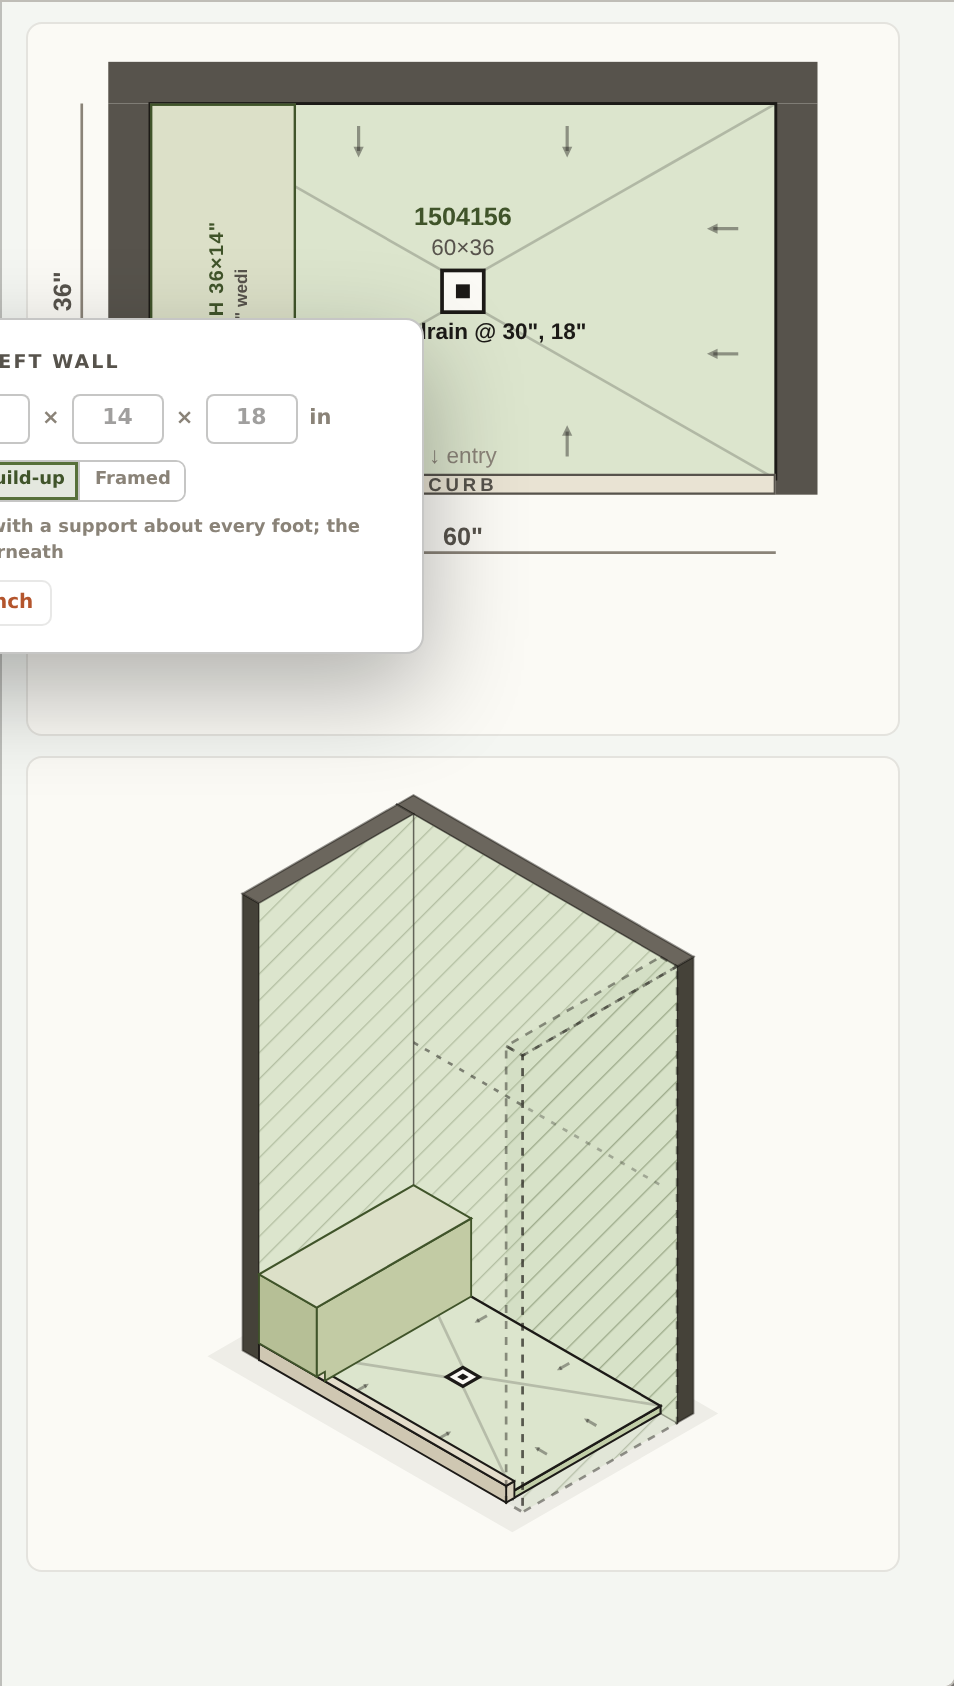
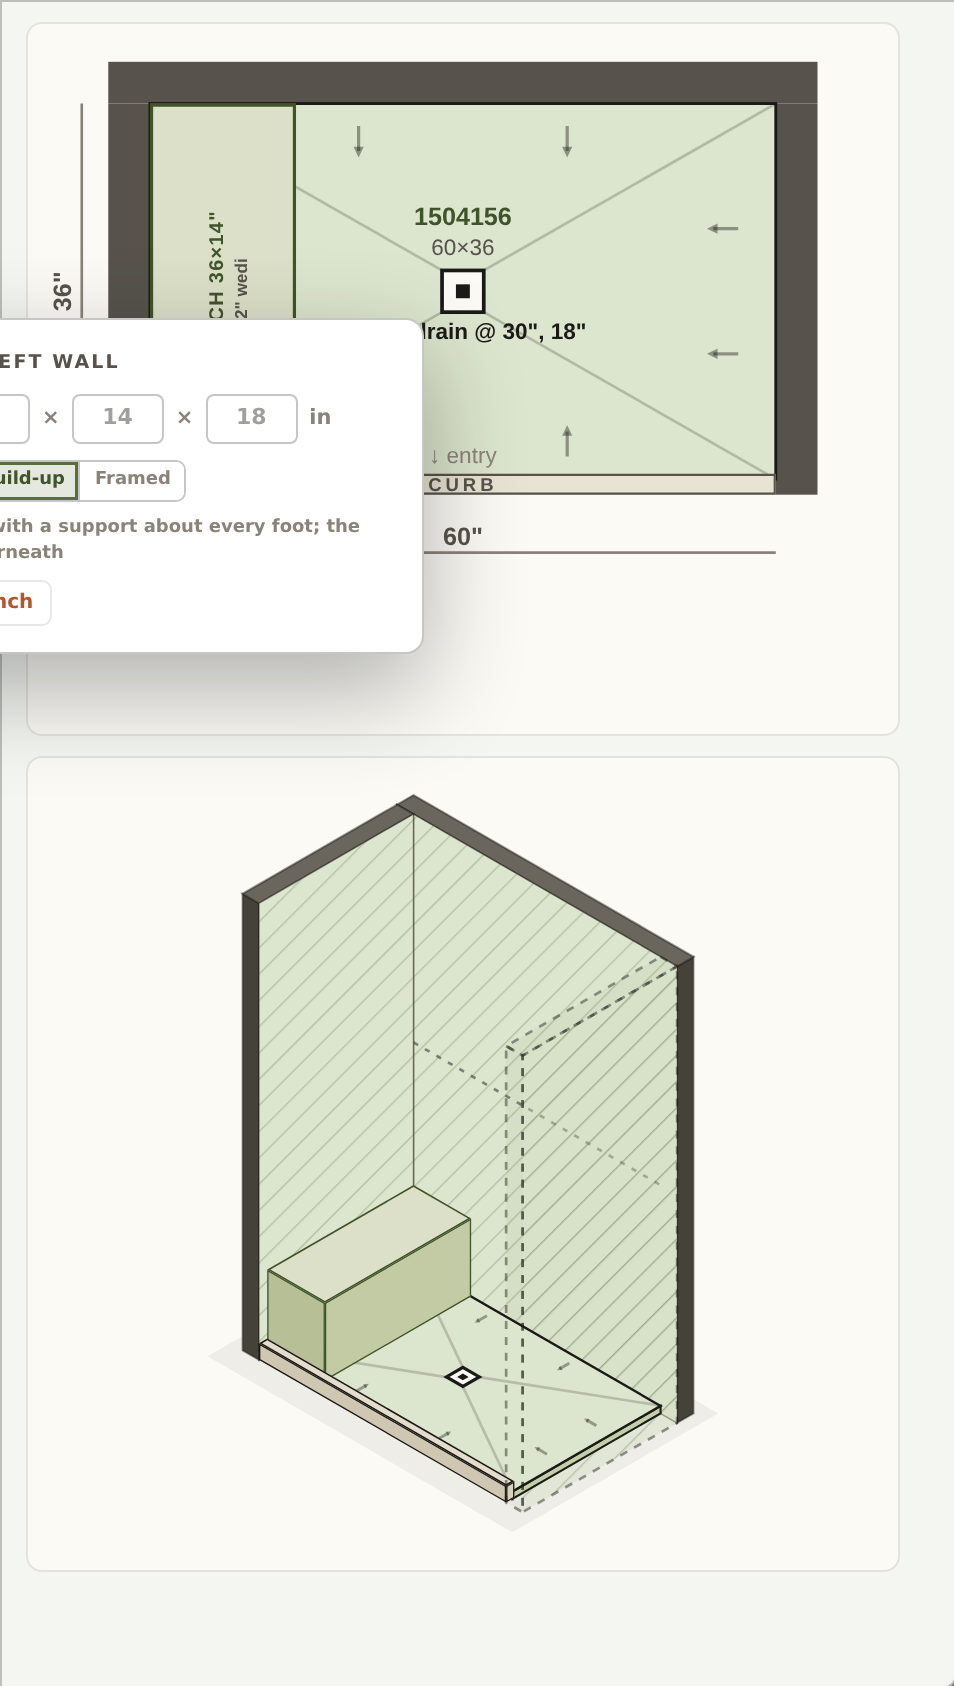
wedi: show the bench stepping up onto the curb in the plan
Owner: "it should sit on top of it. but needs to step up onto it. It is not
showing it right."

The rule stands — the bench sits ON the curb — and the isometric already draws
that exactly: its step corner M(x1, yStep, zOut) lands on the curb's top-inner
edge to a hundredth of an SVG unit (111.97,228.55 drawn against 111.96,228.55
expected), the riser measuring CBH minus the pan's thickness.

The PLAN had no sign of it. The bench rectangle simply covered the run, so the
one element that reads straight across the entry died underneath it. The curb's
two edges now carry on over the bench in the bench's own colour — inner face
dashed, outer face solid — and the raised stretch is marked STEPS UP.

Also recorded in the ticket: the heavy black line in the owner's photo was their
pen, not a rendering artefact, so the earlier isometric stroke-clip was shipped
on a misread. It stands as an improvement but was not the fix asked for.

891 unit tests pass; check-flush.mjs clean.

Claude-Session: https://claude.ai/code/session_01Dm93jK2XExdTW1ULmwr27b

diff --git a/src/WediConfigurator.jsx b/src/WediConfigurator.jsx
@@ -1028,6 +1028,23 @@ function TopDown({ o, w, h, mini, wallOn, dWalls, benches, framedFit, cuts, curb
     const bw = round2(f.w * sc), bh = round2(f.d * sc + out * sc);
     push(<rect key={`bn${bi}`} x={X(f.x)} y={Y(f.y)} width={bw} height={bh}
       fill="#DCE0C8" stroke={MOSS_DEEP} strokeWidth="2.4" clipPath={clipSelf(boxPts(X(f.x), Y(f.y), bw, bh))} />);
+    // Where the bench crosses the curb it STEPS UP onto it (owner 2026-08-03) —
+    // the isometric shows that as a notch in its underside, and this view had no
+    // sign of it at all: the bench simply covered the run and the one line that
+    // reads straight across the entry died under it. The curb's own edges now
+    // carry on over the bench in its colour, so the raised stretch reads as
+    // raised and the run still reads as one line.
+    const eb = !b.suspended && planBands.find((x) => x.side === "entry");
+    if (eb && f.y + f.d >= rd - 0.5) {
+      const lx = X(f.x), rx = X(f.x + f.w);
+      [eb.c0, eb.c1].forEach((cy2, i) => {
+        if (cy2 <= f.y + 0.01 || cy2 * sc > (f.y + f.d + out) * sc + 0.01) return;
+        push(<line key={`bnc${bi}s${i}`} x1={lx} y1={Y(cy2)} x2={rx} y2={Y(cy2)}
+          stroke={MOSS_DEEP} strokeWidth="1.2" strokeDasharray={i ? undefined : "4 3"} />);
+      });
+      push(<text key={`bnu${bi}`} x={round2((lx + rx) / 2)} y={round2(Y((eb.c0 + eb.c1) / 2) + 2.5)}
+        textAnchor="middle" fontSize="6" fontWeight="800" fill={MOSS_DEEP} fontFamily={FONT} letterSpacing=".4">STEPS UP</text>);
+    }
     if (b.build === "framed" && !framedFit) {
       // wall to wall along the PAN — short of the line when the curb is inside it
       const yPan = rd - (o.inset && o.inset.entry > 0 ? o.inset.entry : 0);

diff --git a/.scratch/079_wedi-custom-pan-interactions/ticket.md b/.scratch/079_wedi-custom-pan-interactions/ticket.md
@@ -264,3 +264,40 @@ line, riding a run that now carries on beneath it" — and the little step is th
 rule drawn honestly. If a 2″ build-up should instead STOP at the curb's inner
 face, the oversail and the step both go, and the entry curb runs past the bench
 end to end. Owner's call.
+
+## Follow-up 5 (2026-08-03, owner) — the step onto the curb
+
+> the black lines are my drawing to help show you the correct look
+> …
+> The problem is the curb runs the whole way but the bench pixcels dont properly
+> fit around the curb
+> …
+> well it should sit on top of it. but needs to step up onto it. It is not
+> showing it right
+
+First correction: the heavy black line in the photo was the owner's PEN, not a
+rendering artefact. The isometric stroke-clip (8d08ff7) was shipped on that
+misread — it stands as a small improvement, but it was not the fix asked for.
+
+Second: a detour where the bench was made to BUTT the curb was written and then
+reverted unpushed — the owner's rule stands, the bench sits ON the curb and
+steps up onto it.
+
+**The isometric's step measures exact.** Bench end face, 60 × 36 alcove with an
+AT curb (CW 4½", CBH 5⅛"), projected SVG units read off the DOM:
+
+| point | drawn | expected |
+|---|---|---|
+| step corner `M(x1, yStep, zOut)` | `111.97, 228.55` | `111.96, 228.55` |
+| curb top-inner edge at x=0 | `90.22, 216` | — |
+| bench front-face base `M(0, y1, zOut)` | `83.23, 220.03` | = curb outer-face top corner |
+
+`yStep = y1 − CW = 35.5` is the curb's inner face `c0`; `zOut = CBH` is its top;
+the riser measures 6.36px = 3.545" = CBH − pan thickness. The step corner lands
+ON the curb's top-inner edge to a hundredth of a unit.
+
+**What was actually missing: the PLAN never showed the step at all.** The bench
+rectangle simply covered the run — no line, no note — so the one element that
+reads straight across the entry died under it. The curb's two edges now carry on
+across the bench in the bench's own colour (its inner face dashed, its outer
+face solid) with the raised stretch marked **STEPS UP**.
